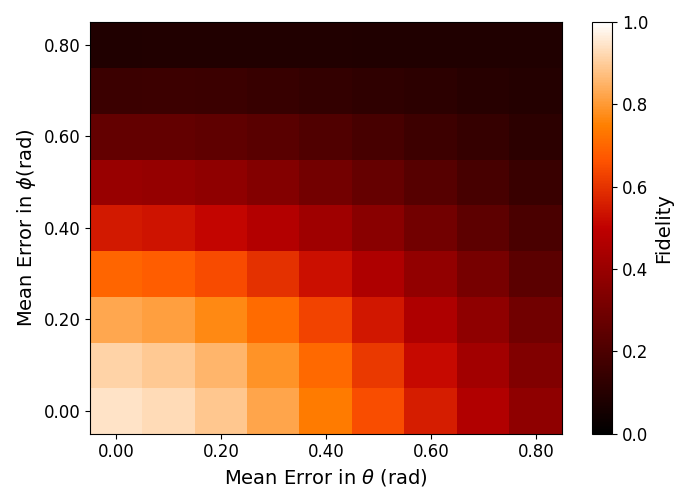
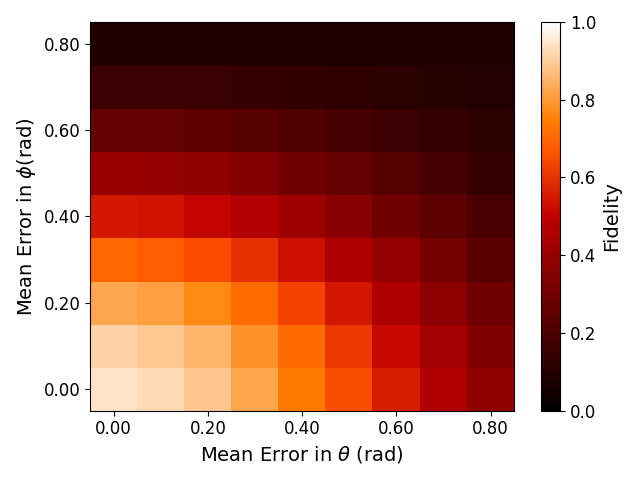
Additional Graphs

Changed region(s): [[0.0, 0.0312, 0.8125, 0.9688], [0.8438, 0.0312, 0.9688, 0.875]]

diff --git a/OptiQuantum_tests/figure_generation/Clements_8x8_Haar_fidelity_test_mean_loss_no_int.py b/OptiQuantum_tests/figure_generation/Clements_8x8_Haar_fidelity_test_mean_loss_no_int.py
@@ -18,60 +18,7 @@ from neuroptica.components_new import MZI_delay
 sys.path.append('../')
 from convert_decomposition import strawberryfields_to_neuroptica_clements
 
-def visibility(mesh, idx_in1, idx_in2, idx_out1, idx_out2):
-    '''Function for the integrand used in the HOM interferometry simulation.
-    :param mesh: The Neuroptica mesh under simulation
-    :param idx_in1: Waveguide index of the first input path
-    :param idx_in2: Waveguide index of the second input path
-    :param idx_out1: Waveguide index of the first output path
-    :param idx_out2: Waveguide index of the second output path
-    '''
-    #Get transfer matrix
-    transfer = mesh.get_transfer_matrix()
-
-    #Evaluate visiblity
-    term1 = transfer[idx_in1,idx_out2]*(transfer[idx_in1,idx_out2].conj())*transfer[idx_in2,idx_out1]*(transfer[idx_in2,idx_out1].conj())
-    term2 = transfer[idx_in1,idx_out1]*(transfer[idx_in1,idx_out1].conj())*transfer[idx_in2,idx_out2]*(transfer[idx_in2,idx_out2].conj())
-    term3 = (transfer[idx_in1,idx_out1].conj())*(transfer[idx_in2,idx_out2].conj())*transfer[idx_in1,idx_out2]*transfer[idx_in2,idx_out1]
-    term4 = (transfer[idx_in1,idx_out2].conj())*(transfer[idx_in2,idx_out1].conj())*transfer[idx_in1,idx_out1]*transfer[idx_in2,idx_out2]
-
-    coinc_max = term1 + term2
-    coinc_min = term1 + term2 + term3 + term4
-    
-    visib = (coinc_max-coinc_min)/coinc_max
-    
-    return visib
-
-def fidelity(mesh, ideal = None):
-    #Get ideal matrix U and lossy/uncertain matrix T
-    if ideal is None:
-        U = mesh.get_transfer_matrix(add_uncertainties=False, add_loss=False)
-    else:
-        U = ideal
-    T = mesh.get_transfer_matrix()
-
-    #Calculate hermitian conjugates
-    U_H = U.conj().T
-    T_H = T.conj().T
-
-    #Calculate fidelity
-    fidel = abs(np.trace(U_H@T)/np.sqrt(np.trace(U_H@U)*np.trace(T_H@T)))**2
-    return fidel
-
-def transmittance(mesh, idx_in1, idx_in2, idx_out1, idx_out2):
-        transfer = mesh.get_transfer_matrix()
-        c11 = transfer[idx_in1,idx_out1]
-        c12 = transfer[idx_in1,idx_out2]
-        c21 = transfer[idx_in2,idx_out1]
-        c22 = transfer[idx_in2,idx_out2]
-        
-        coinc = (np.abs(c12)**2)*(np.abs(c21)**2) + (np.abs(c11)**2)*(np.abs(c22)**2) + \
-                (np.conjugate(c11)*np.conjugate(c22)*c12*c21 + np.conjugate(c12)*np.conjugate(c21)*c11*c22)
-        prob_a = (np.abs(c12)**2)*(np.abs(c22)**2) + (np.abs(c11)**2)*(np.abs(c21)**2)
-        prob_b = (np.abs(c11)**2)*(np.abs(c21)**2) + (np.abs(c12)**2)*(np.abs(c22)**2)
-        
-        tot_prob = coinc + prob_a + prob_b
-        return tot_prob
+from metrics import fidelity
 
 def main():
     timer = TicToc()
@@ -86,11 +33,11 @@ def main():
     n_dB = int(max_dB/step_size_dB) + 1
     losses_dB = np.linspace(0,max_dB,n_dB)
     
-    transmittances = np.zeros([n_dB,n_Haars])
+    fidels = np.zeros([n_dB,n_Haars])
     #out1 = 0
     #out2 = 1
-    out1 = N-2
-    out2 = N-1
+    #out1 = N-2
+    #out2 = N-1
     
     timer.tic()
 
@@ -110,17 +57,12 @@ def main():
         sz = np.shape(tlist)
         phase_data = [(tlist[i,2],tlist[i,3]) for i in range(sz[0])]
 
-        network = ClementsLayer(N, phases=phase_data, include_phase_shifter_layer=True,shifter_phases=localv,loss_diff=0.00)
+        network = ClementsLayer(N, phases=phase_data, include_phase_shifter_layer=True,shifter_phases=localv,loss_diff=0.02)
         mesh = network.mesh
-        print(np.round(matrix,2))
-        print(np.round(mesh.get_transfer_matrix(),2))
-
-        print(np.round(abs(mesh.get_transfer_matrix()-matrix),2))
-        return
 
         n_samples = 1000
 
-        transmittance_samples = np.zeros([n_samples])
+        fidel_samples = np.zeros([n_samples])
                 
         for i in range(n_dB):
             for sample in range(n_samples):
@@ -132,14 +74,14 @@ def main():
                             if mzi_cur.loss_dB_cur < 0:
                                 mzi_cur.loss_dB_cur = 0
                                 print("gain detected")
-                transmittance_samples[sample] = fidelity(mesh,matrix)
-            transmittances[i,haar_num] = np.mean(transmittance_samples)
+                fidel_samples[sample] = fidelity(mesh,matrix)
+            fidels[i,haar_num] = np.mean(fidel_samples)
             #print(fidels[i,j])
 
     #Plotting code from ONN_Simulation_Class.py
-    labels_size = 30
-    legend_size = 30
-    tick_size = 28
+    labels_size = 14
+    legend_size = 14
+    tick_size = 12
     contour_color = (0.36, 0.54, 0.66)
     contour_color2 = 'black'
     contour_linewidth = 3.5
@@ -152,13 +94,13 @@ def main():
 
     # Plot Loss + Phase uncert accuracies
     # plt.pcolor(self.loss_dB, self.phase_uncert_theta, self.accuracy_LPU, vmin=100/(self.N+1)*0, vmax=100, cmap=cmap, rasterized=True)
-    plt.figure(figsize=(6.95, 5.03)) # compress the graph (around) quarter in size, by cutting top half and compress horizontally
-    plt.plot(losses_dB,transmittances)
+    #plt.figure(figsize=(6.95, 5.03)) # compress the graph (around) quarter in size, by cutting top half and compress horizontally
+    plt.plot(losses_dB,fidels)
 
     
     ax = plt.gca()
-    ax.yaxis.set_major_formatter(FormatStrFormatter('%.2f'))
-    ax.xaxis.set_major_formatter(FormatStrFormatter('%.2f'))
+    ax.yaxis.set_major_formatter(FormatStrFormatter('%.4f'))
+    ax.xaxis.set_major_formatter(FormatStrFormatter('%.4f'))
     ax.tick_params(axis='both', which='minor', labelsize=tick_size)
     ax.tick_params(axis='both', which='major', labelsize=tick_size)
 
@@ -170,13 +112,13 @@ def main():
     #cbar.set_label('Fidelity', fontsize=labels_size)
     # plt.title(f'{self.N}$\\times${self.N} {self.topology}', fontsize=labels_size)
     plt.tight_layout()
-    plt.show()
+    #plt.show()
 
 
-    #plt.savefig(f'figures_set1/transmittance_7_8_vs_random_loss_Clements_1000_samples_1Haar_loss_diff_002.png')
+    plt.savefig(f'figures_set1/Update October 26/Clements_8x8_fidelity_vs_random_loss_1000_samples_loss_diff_002.png')
 
     #Save Data
-    #np.savetxt(f'figures_set1/transmittance__7_8_vs_random_loss_Clements_1000samples_1Haar_loss_diff_002.txt',transmittances)
+    np.savetxt(f'figures_set1/Update October 26/Clements_8x8_fidelity_vs_random_loss_1000_samples_loss_diff_002.txt',fidels)
     timer.toc()
 
     

diff --git a/OptiQuantum_tests/figure_generation/visibility_plotter.py b/OptiQuantum_tests/figure_generation/visibility_plotter.py
@@ -12,7 +12,7 @@ def main():
     n_phase = int(max_phase/step_size_phase) + 1
     phases = np.linspace(0,max_phase,n_phase)
 
-    fidels = np.loadtxt(f'figures_set1/fidelity_vs_mean_phases_Clements_8x8_1000samples_1Haar_unc_pi_32.txt')
+    visibs = np.loadtxt(f'figures_set1/visibiity_vs_random_phases_Clements_1000samples_MZI_1.txt')
 
     cmap='gist_heat'
 
@@ -33,7 +33,7 @@ def main():
     # Plot Loss + Phase uncert accuracies
     # plt.pcolor(self.loss_dB, self.phase_uncert_theta, self.accuracy_LPU, vmin=100/(self.N+1)*0, vmax=100, cmap=cmap, rasterized=True)
     #plt.figure(figsize=(6.95, 5.03)) # compress the graph (around) quarter in size, by cutting top half and compress horizontally
-    plt.pcolor(phases, phases, fidels.T, cmap=cmap, rasterized=True, vmin=0, vmax=1)
+    plt.pcolor(phases, phases, visibs.T, cmap=cmap, rasterized=True, vmin=0, vmax=1)
 
     ax = plt.gca()
     ax.yaxis.set_major_formatter(FormatStrFormatter('%.2f'))
@@ -41,17 +41,17 @@ def main():
     ax.tick_params(axis='both', which='minor', labelsize=tick_size)
     ax.tick_params(axis='both', which='major', labelsize=tick_size)
 
-    plt.xlabel(r'Mean Error in $\theta$ (rad)', fontsize=labels_size)
-    plt.ylabel(r'Mean Error in $\phi$(rad)', fontsize=labels_size)
+    plt.xlabel(r'Standard Deviation of $\theta$ (rad)', fontsize=labels_size)
+    plt.ylabel(r'Standard Deviation of $\phi$(rad)', fontsize=labels_size)
     cbar = plt.colorbar()
     cbar.ax.tick_params(labelsize=tick_size)
-    cbar.set_label('Fidelity', fontsize=labels_size)
+    cbar.set_label('Visibility', fontsize=labels_size)
     # plt.title(f'{self.N}$\\times${self.N} {self.topology}', fontsize=labels_size)
     plt.tight_layout()
 
     #plt.show()
 
-    plt.savefig(f'figures_set1/Update October 26/fidelity_vs_mean_phases_Clements_8x8_1000samples_1Haar_unc_pi_32.png')
+    plt.savefig(f'figures_set1/Update October 26/visibility_vs_phase_sd_Clements_1000samples_MZI_1.png')
 
 if __name__ == '__main__':
     main()
